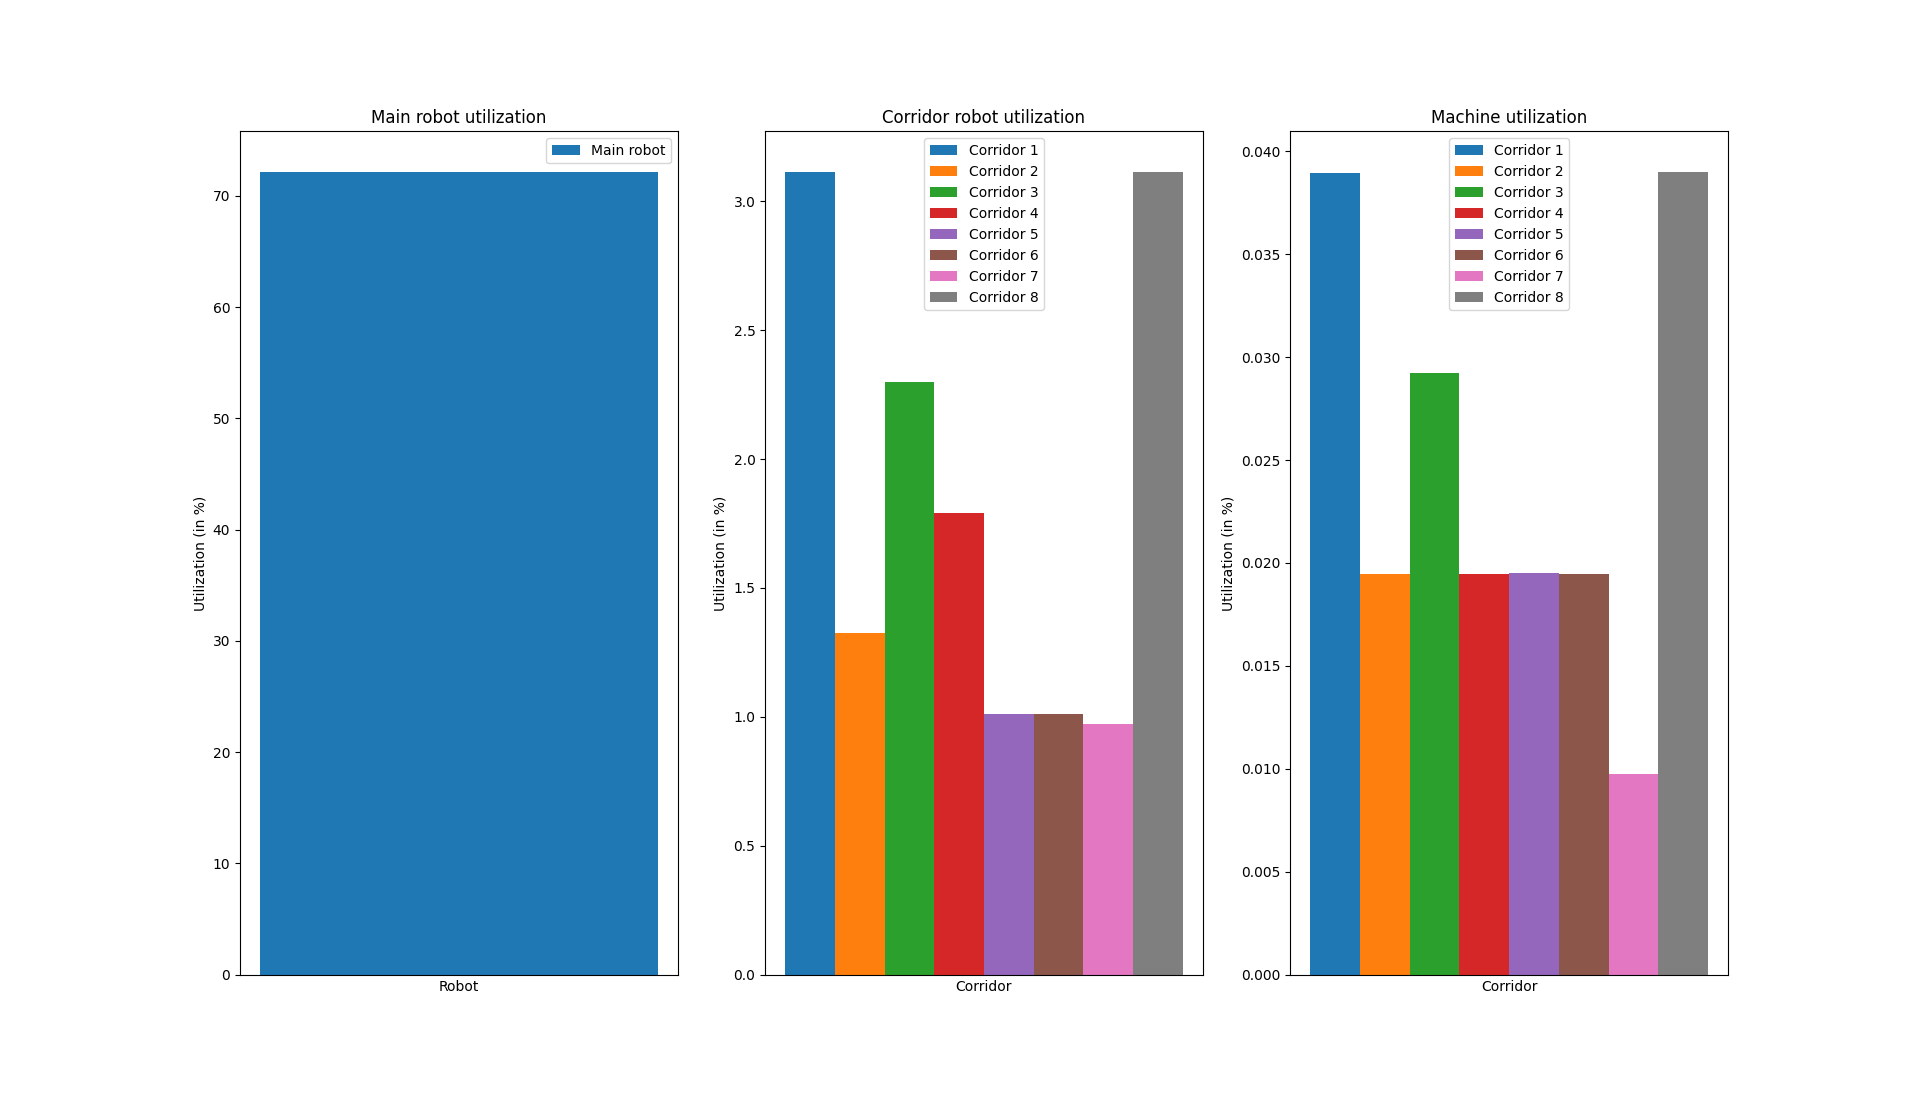
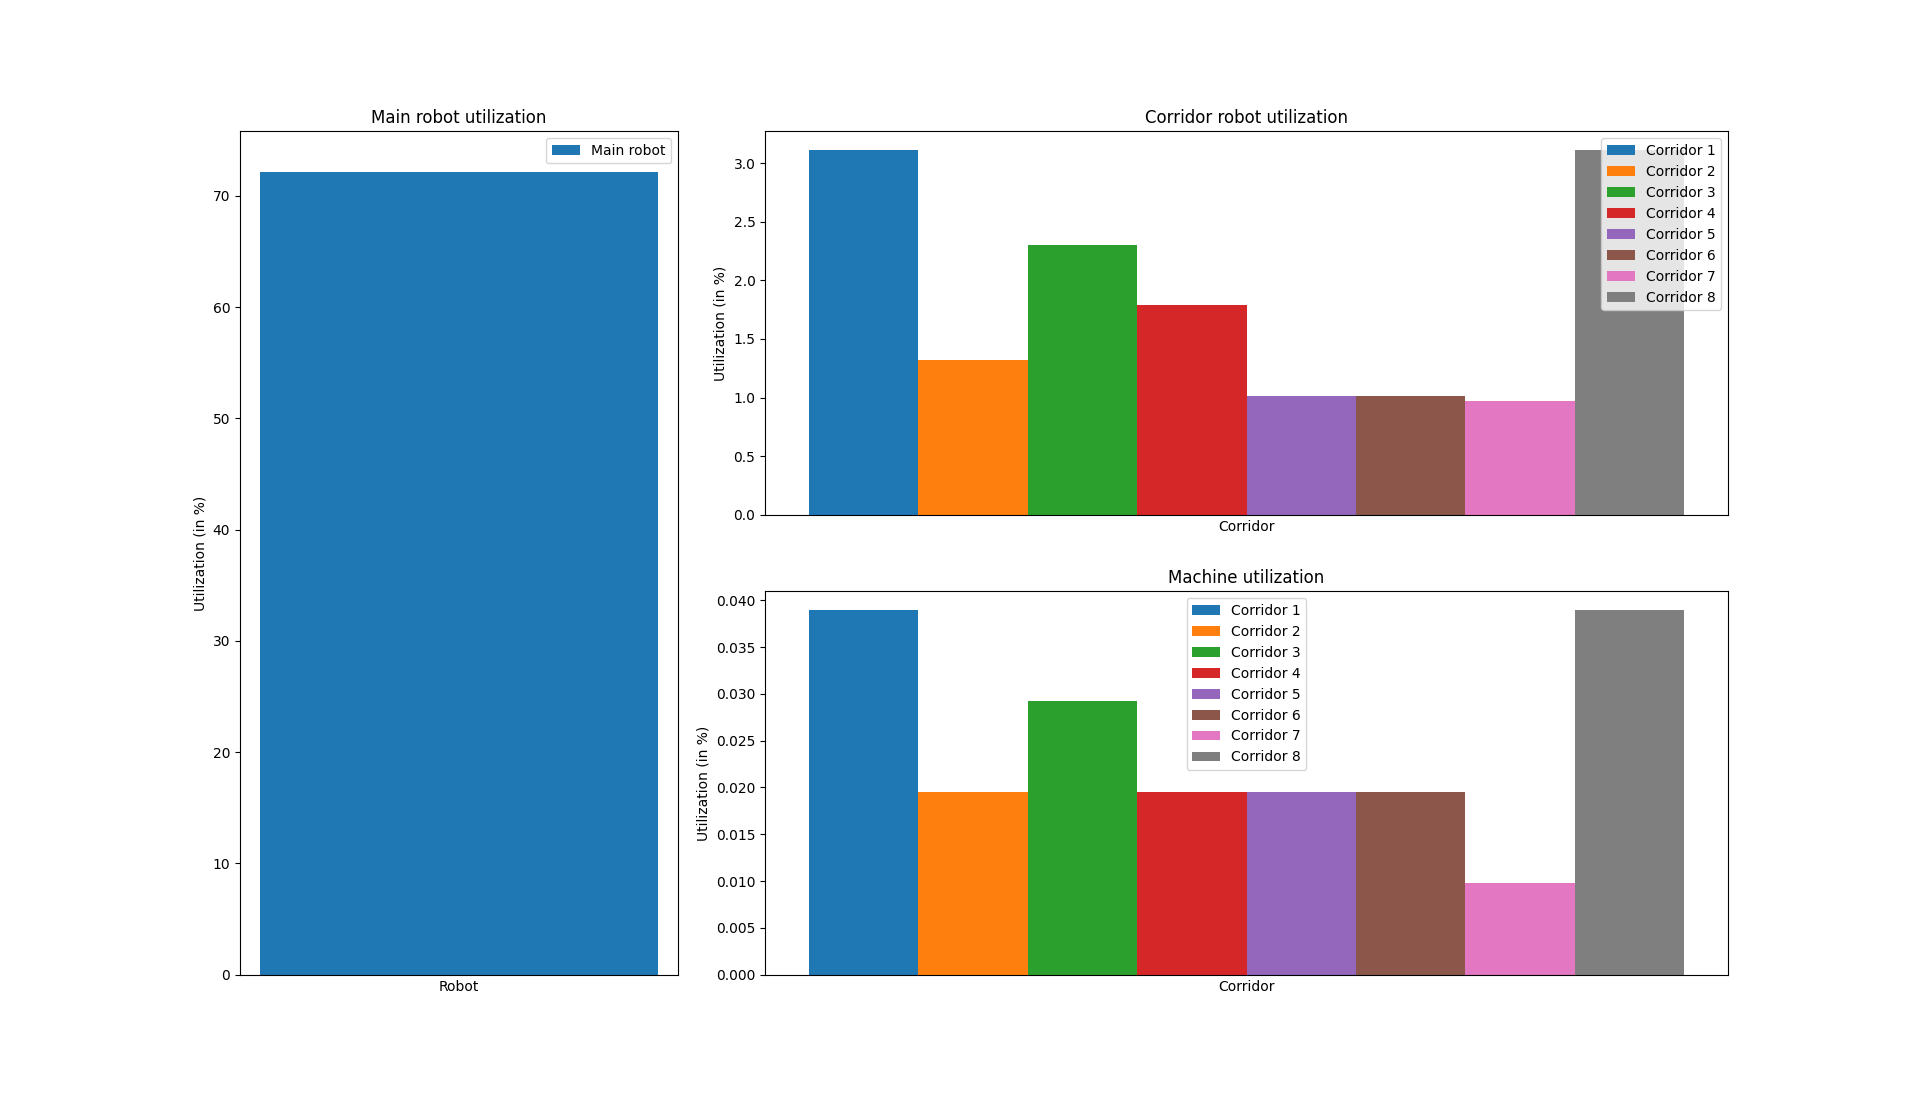
improve chart visualization

Changed region(s): [[0.375, 0.0932, 0.9062, 0.9005], [0.5938, 0.0932, 0.6875, 0.1242]]

diff --git a/sources/fda/sim/layout.py b/sources/fda/sim/layout.py
@@ -87,7 +87,7 @@ class SimLayout(sim.Component):
         bar_width = 0.15
         
         # Main robot subplot
-        plt.subplot(1, 3, 1)
+        plt.subplot(2, 3, (1, 4))
         col = 1
         plt.bar(col * bar_width, self.sim_main_robot.utilization() * 100, width=bar_width, label='Main robot')
         col = col + 1
@@ -98,7 +98,7 @@ class SimLayout(sim.Component):
         plt.legend()
 
         # Corridor robot submit
-        plt.subplot(1, 3, 2)
+        plt.subplot(2, 3, (2, 3))
         col = 1
         for sim_corridor in self.sim_corridors:
             plt.bar(col * bar_width, sim_corridor.robotUtilization() * 100, width=bar_width, label=sim_corridor.corridor.name)
@@ -110,7 +110,7 @@ class SimLayout(sim.Component):
         plt.legend()
 
         # Machines subplot
-        plt.subplot(1, 3, 3)
+        plt.subplot(2, 3, (5, 6))
         col = 1
         for sim_corridor in self.sim_corridors:
             plt.bar(col * bar_width, sim_corridor.machineUtilization() * 100, width=bar_width, label=sim_corridor.corridor.name)
